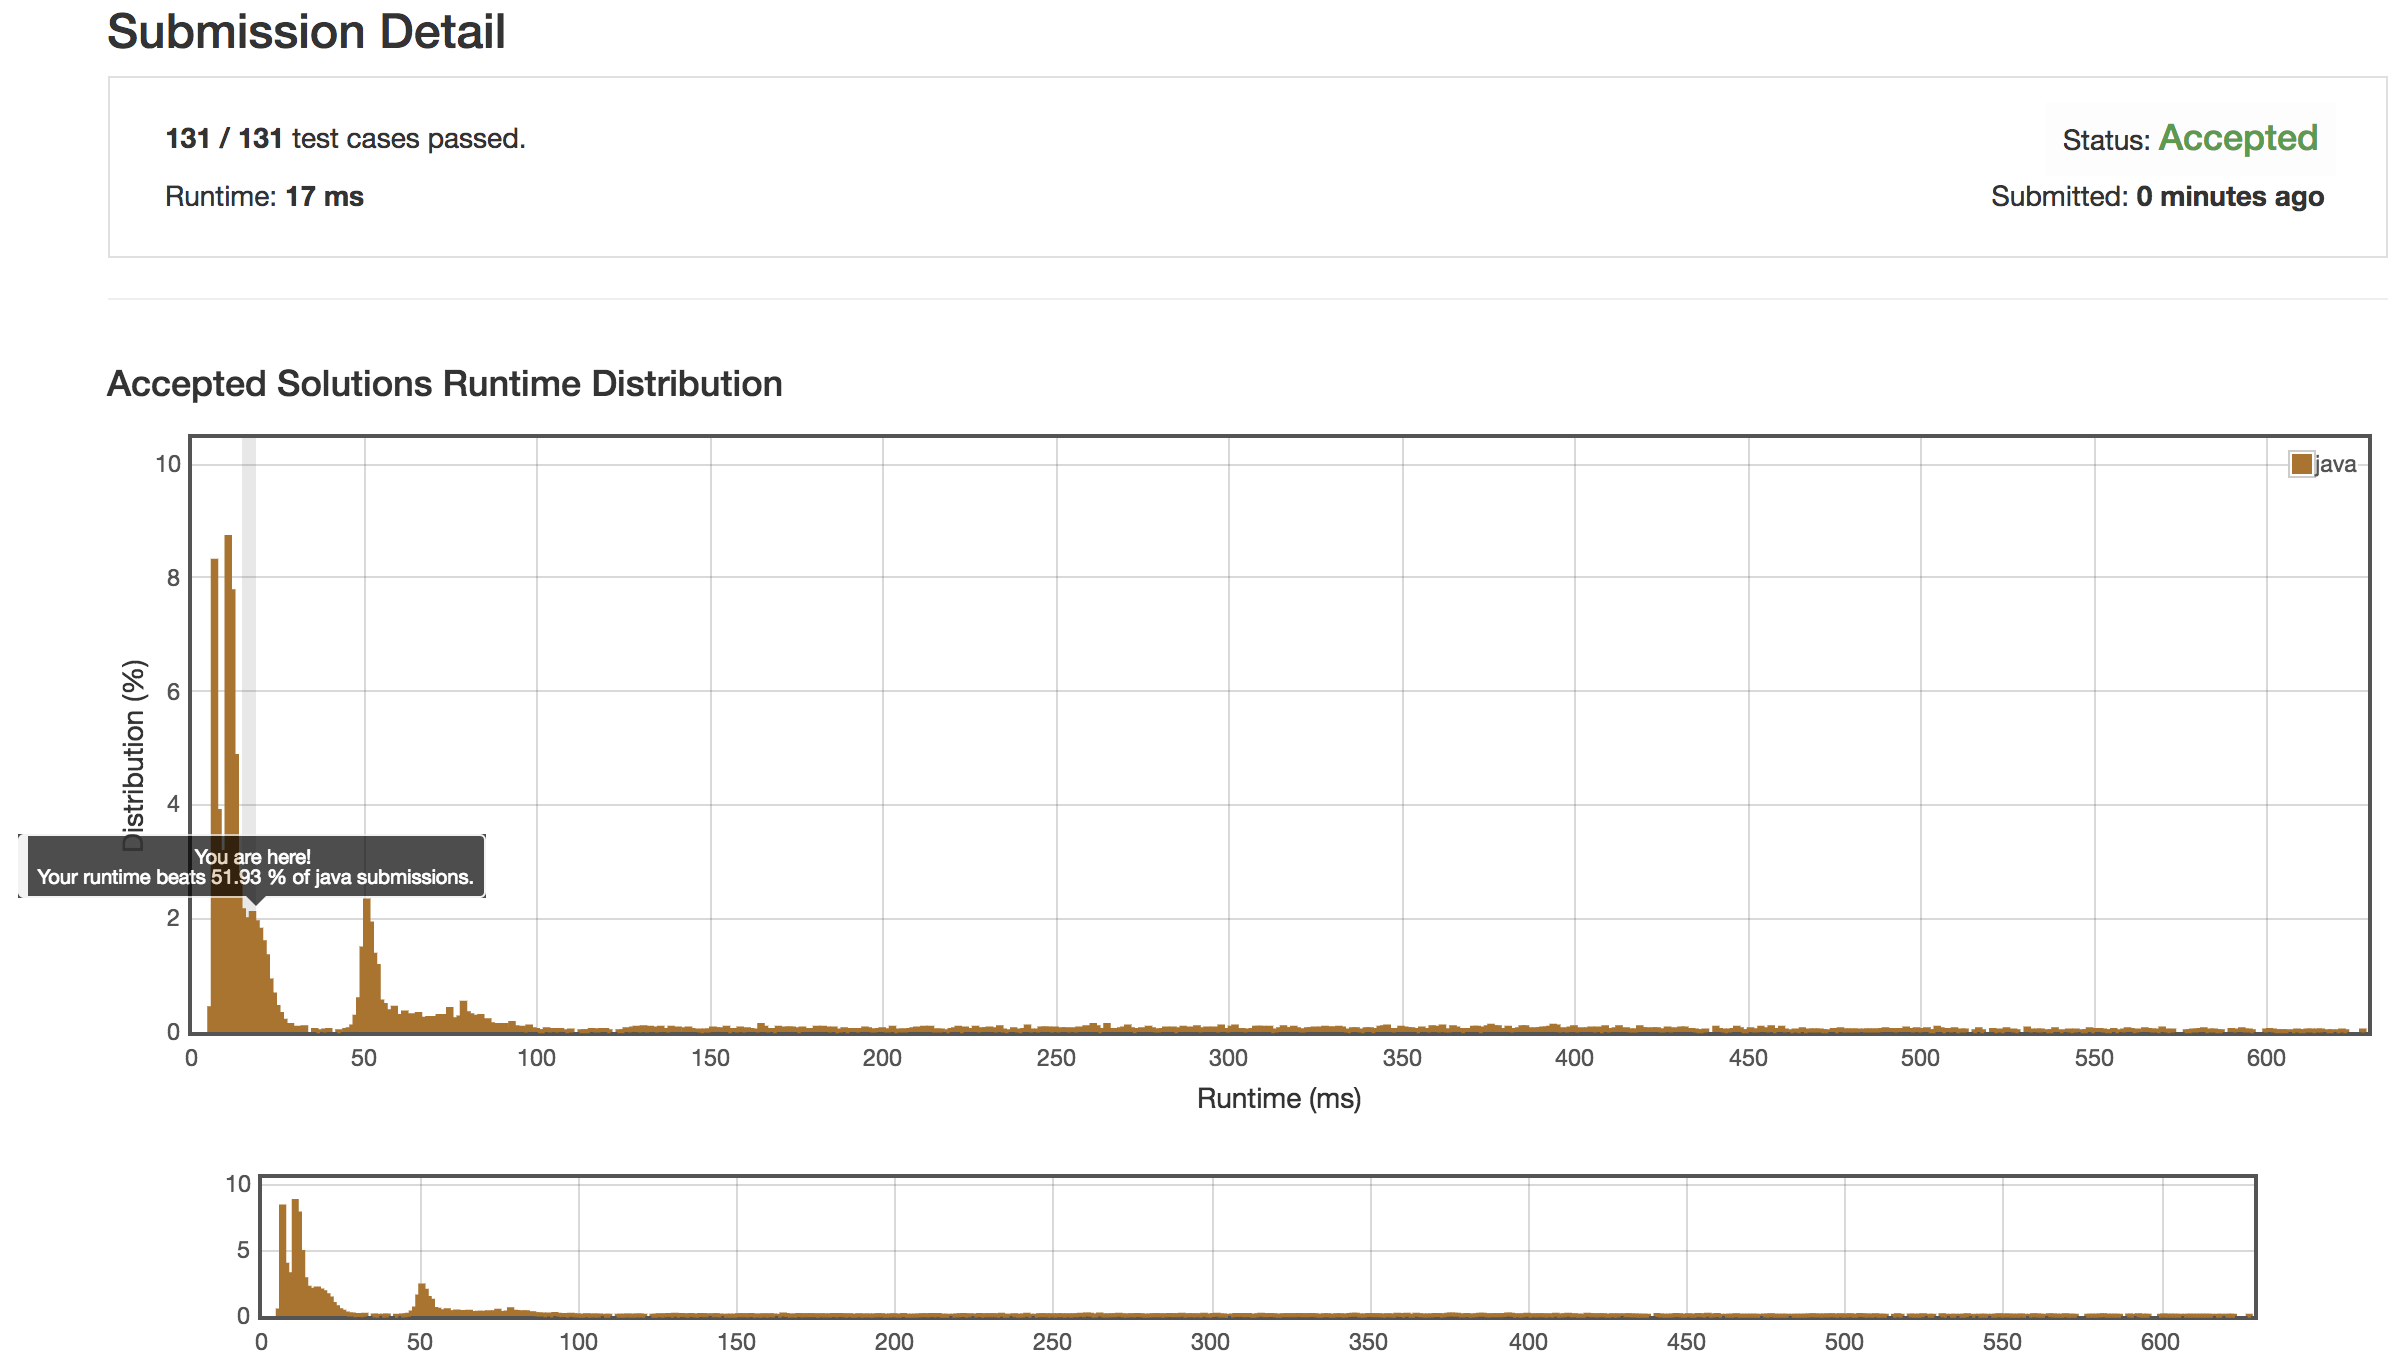
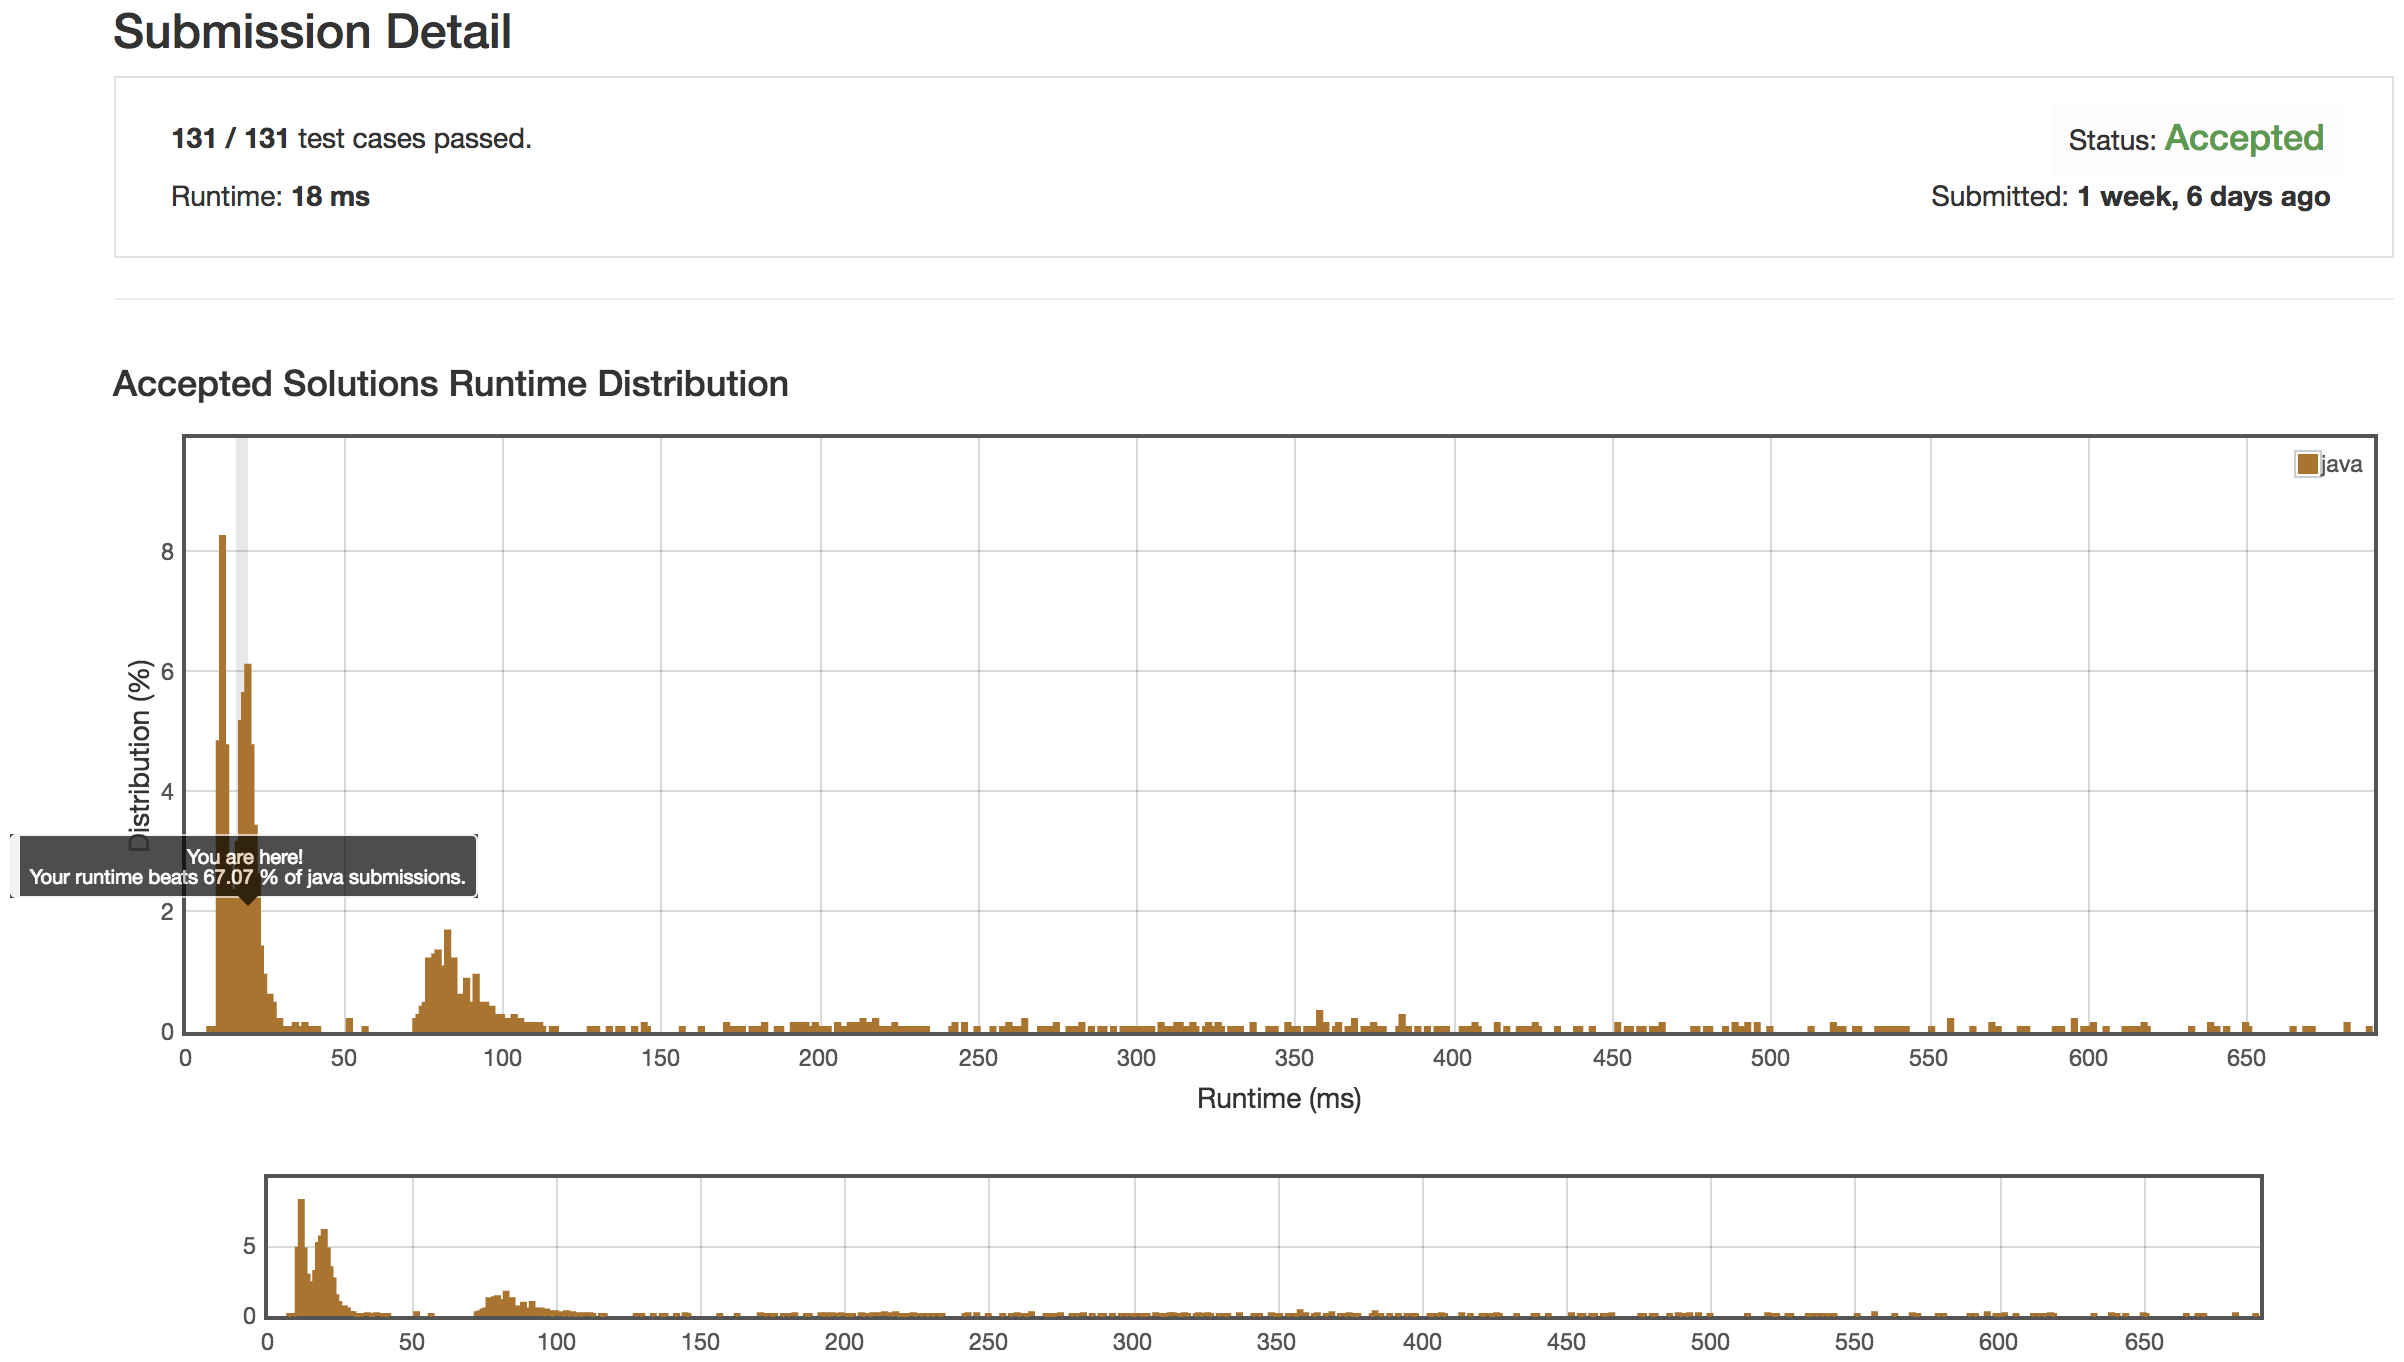
UPDATE merge k sorted lists result

diff --git a/README.md b/README.md
@@ -13,7 +13,7 @@ So far:
 | [String to Integer (atoi)](medium/string-to-integer-atoi) | Medium | 98.49% | 15th Dec 2018 |
 | [Length of Longest Substring](medium/length-of-longest-substring) | Medium | 71.73% | 30th Dec 2018 |
 | [Container With Most Water](medium/container-with-most-water) | Medium | 100% | 1st Jan 2019 |
-| [Merge k Sorted Lists](hard/merge-k-sorted-lists) | Hard | 51.93% | 1st Jan 2019 |
+| [Merge k Sorted Lists](hard/merge-k-sorted-lists) | Hard | 67.07% | 1st Jan 2019 |
 | [Validate Binary Search Tree](medium/validate-binary-search-tree) | Medium | 100% | 2nd Jan 2019 |
 | [Swap Nodes in Pairs](medium/swap-nodes-in-pairs) | Medium | 55.66% | 6th Jan 2019 |
 | [House Robber III](medium/house-robber-iii) | Medium | 99.77% | 7th Jan 2019 |
